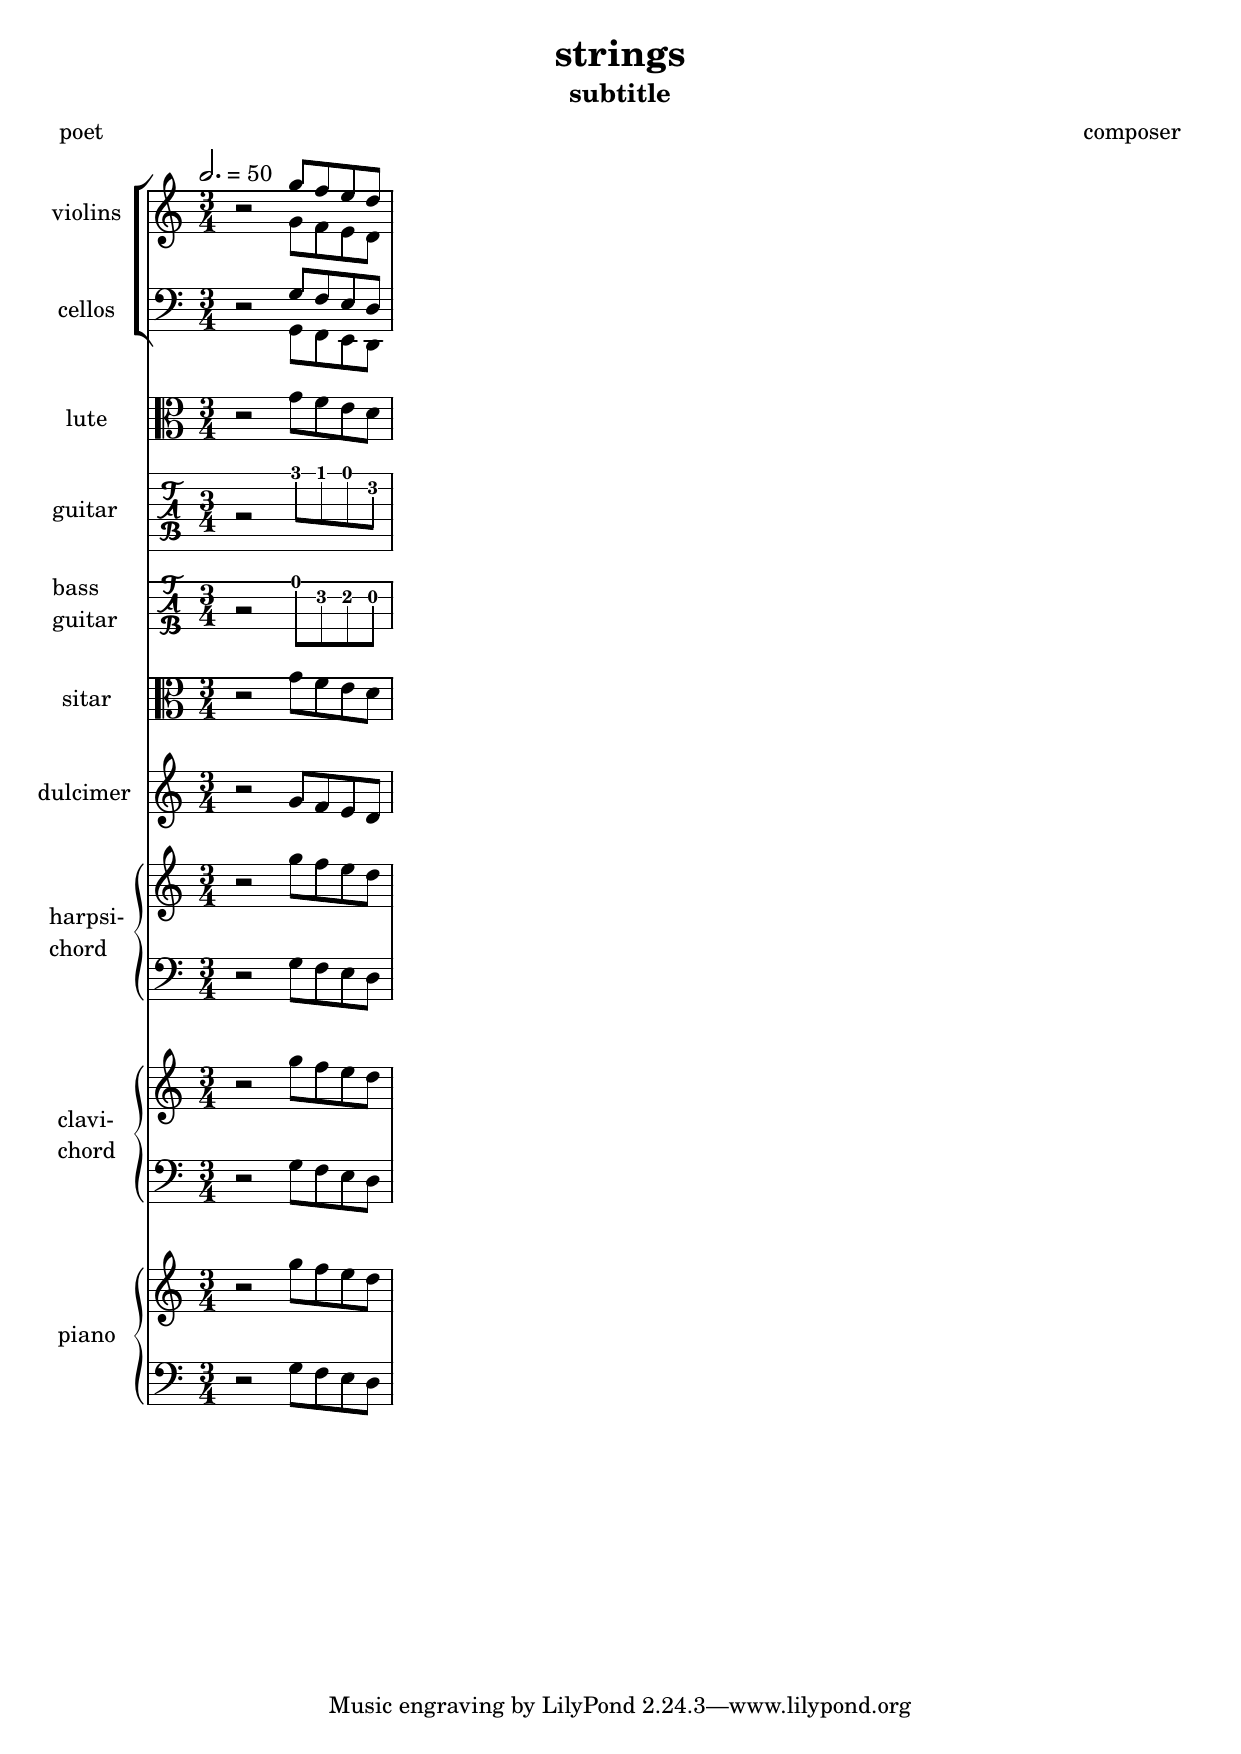
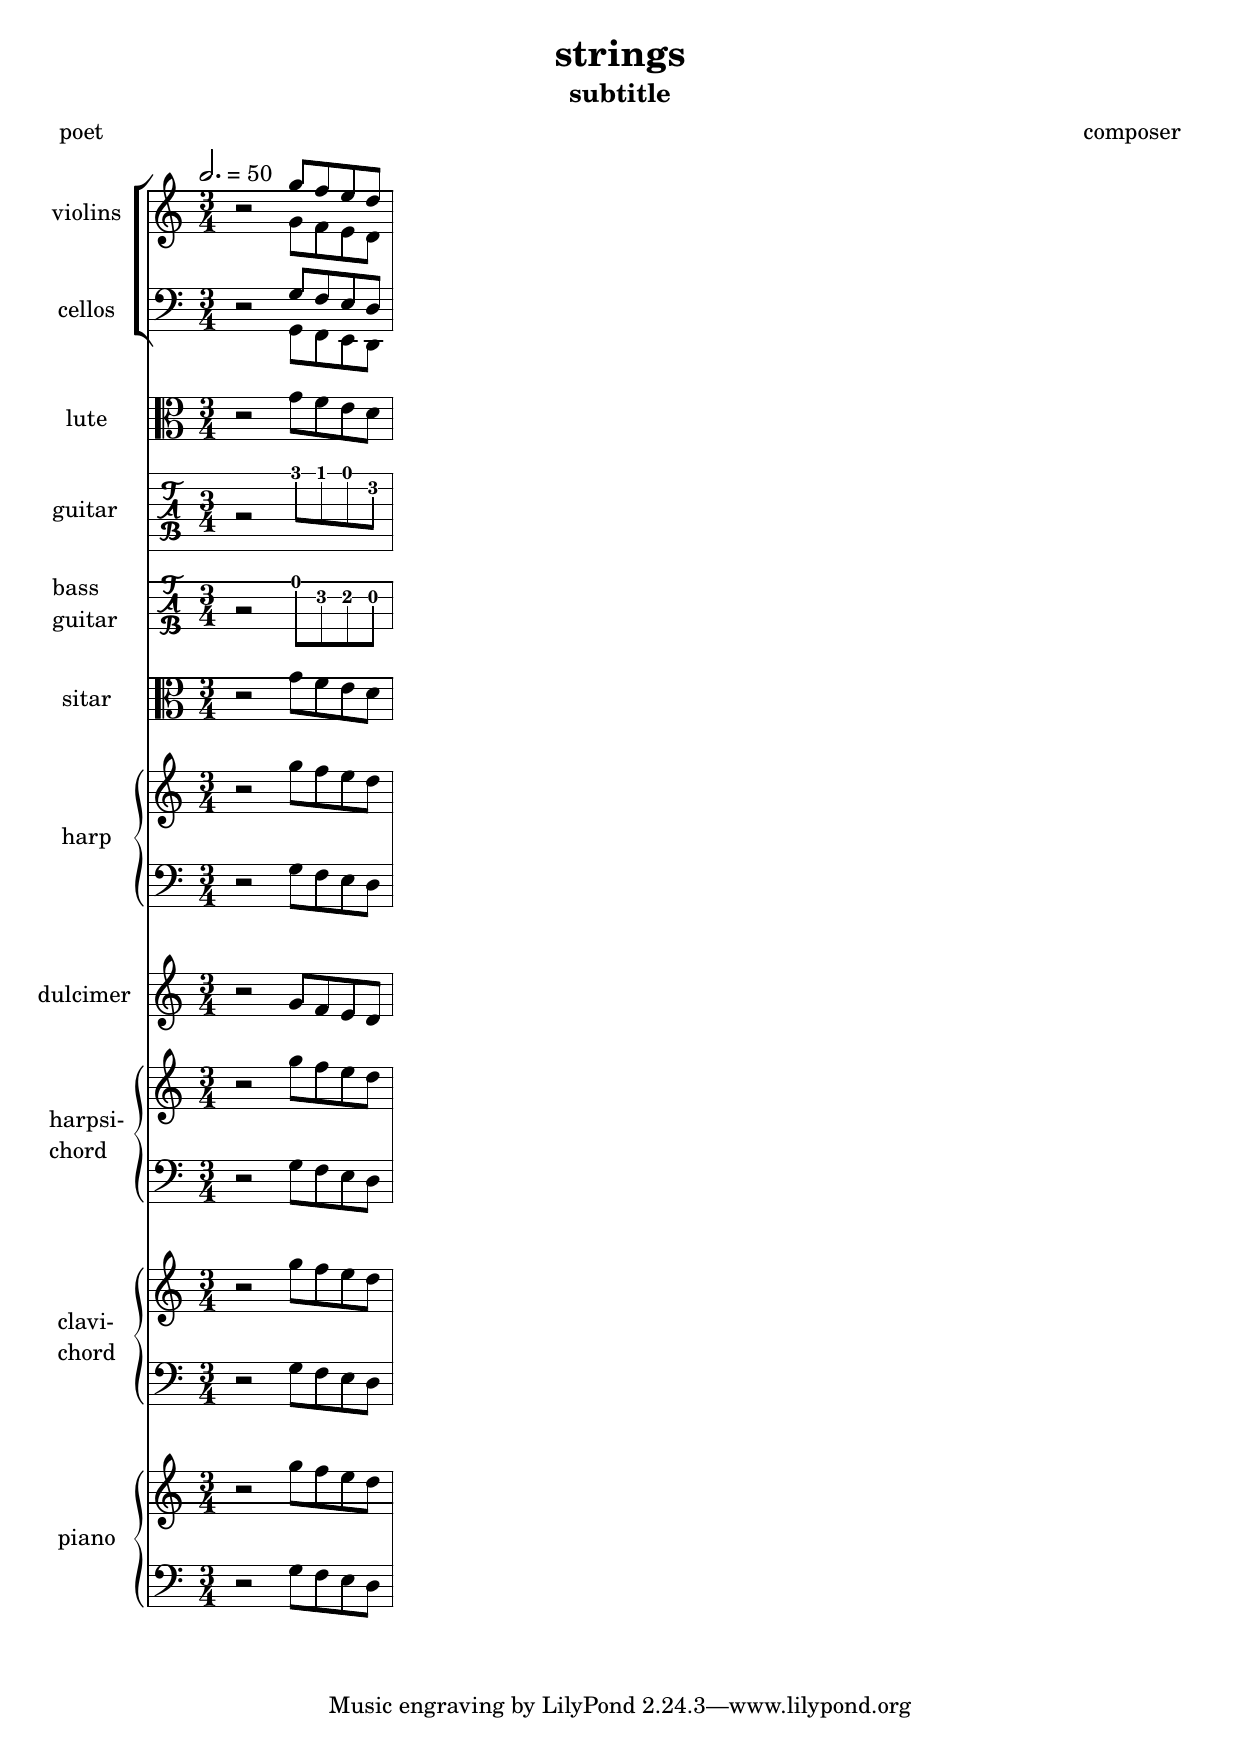
...

diff --git a/musica/template/strings.html b/musica/template/strings.html
@@ -3,7 +3,7 @@
 "http://www.w3.org/TR/xhtml1/DTD/xhtml1-strict.dtd">
 <html xmlns="http://www.w3.org/1999/xhtml" lang="en" xml:lang="en">
 <head>
-<!-- 2024-03-29 ven 15:15 -->
+<!-- 2024-03-29 ven 15:21 -->
 <meta http-equiv="Content-Type" content="text/html;charset=utf-8" />
 <meta name="viewport" content="width=device-width, initial-scale=1" />
 <title>Eclats de vers : Opus : Musica : Template : Cordes</title>
@@ -205,20 +205,20 @@
 <h2>Table of Contents</h2>
 <div id="text-table-of-contents" role="doc-toc">
 <ul>
-<li><a href="#orgea863b7">1. Ensemble d’instruments à cordes</a></li>
+<li><a href="#org42c3070">1. Ensemble d’instruments à cordes</a></li>
 </ul>
 </div>
 </div>
 
-<div id="outline-container-orgea863b7" class="outline-2">
-<h2 id="orgea863b7"><span class="section-number-2">1.</span> Ensemble d’instruments à cordes</h2>
+<div id="outline-container-org42c3070" class="outline-2">
+<h2 id="org42c3070"><span class="section-number-2">1.</span> Ensemble d’instruments à cordes</h2>
 <div class="outline-text-2" id="text-1">
 <p>
 Le résultat :
 </p>
 
 
-<div id="orga731c1a" class="figure">
+<div id="orgc6fb116" class="figure">
 <p><img src="../../image/musica/template/strings.png" alt="strings.png" />
 </p>
 </div>
@@ -4406,7 +4406,7 @@ groupCelesta = \new GrandStaff
       %\staffBassGuitar
       \tablatureBassGuitar
       \staffSitar
-      %\groupHarp
+      \groupHarp
       % hammered strings {{{4
       \staffDulcimer
       % string keyboards {{{4
@@ -4461,7 +4461,7 @@ groupCelesta = \new GrandStaff
 </div>
 <div id="postamble" class="status">
 <p class="author">Author: chimay</p>
-<p class="date">Created: 2024-03-29 ven 15:15</p>
+<p class="date">Created: 2024-03-29 ven 15:21</p>
 <p class="validation"><a href="https://validator.w3.org/check?uri=referer">Validate</a></p>
 </div>
 </body>
